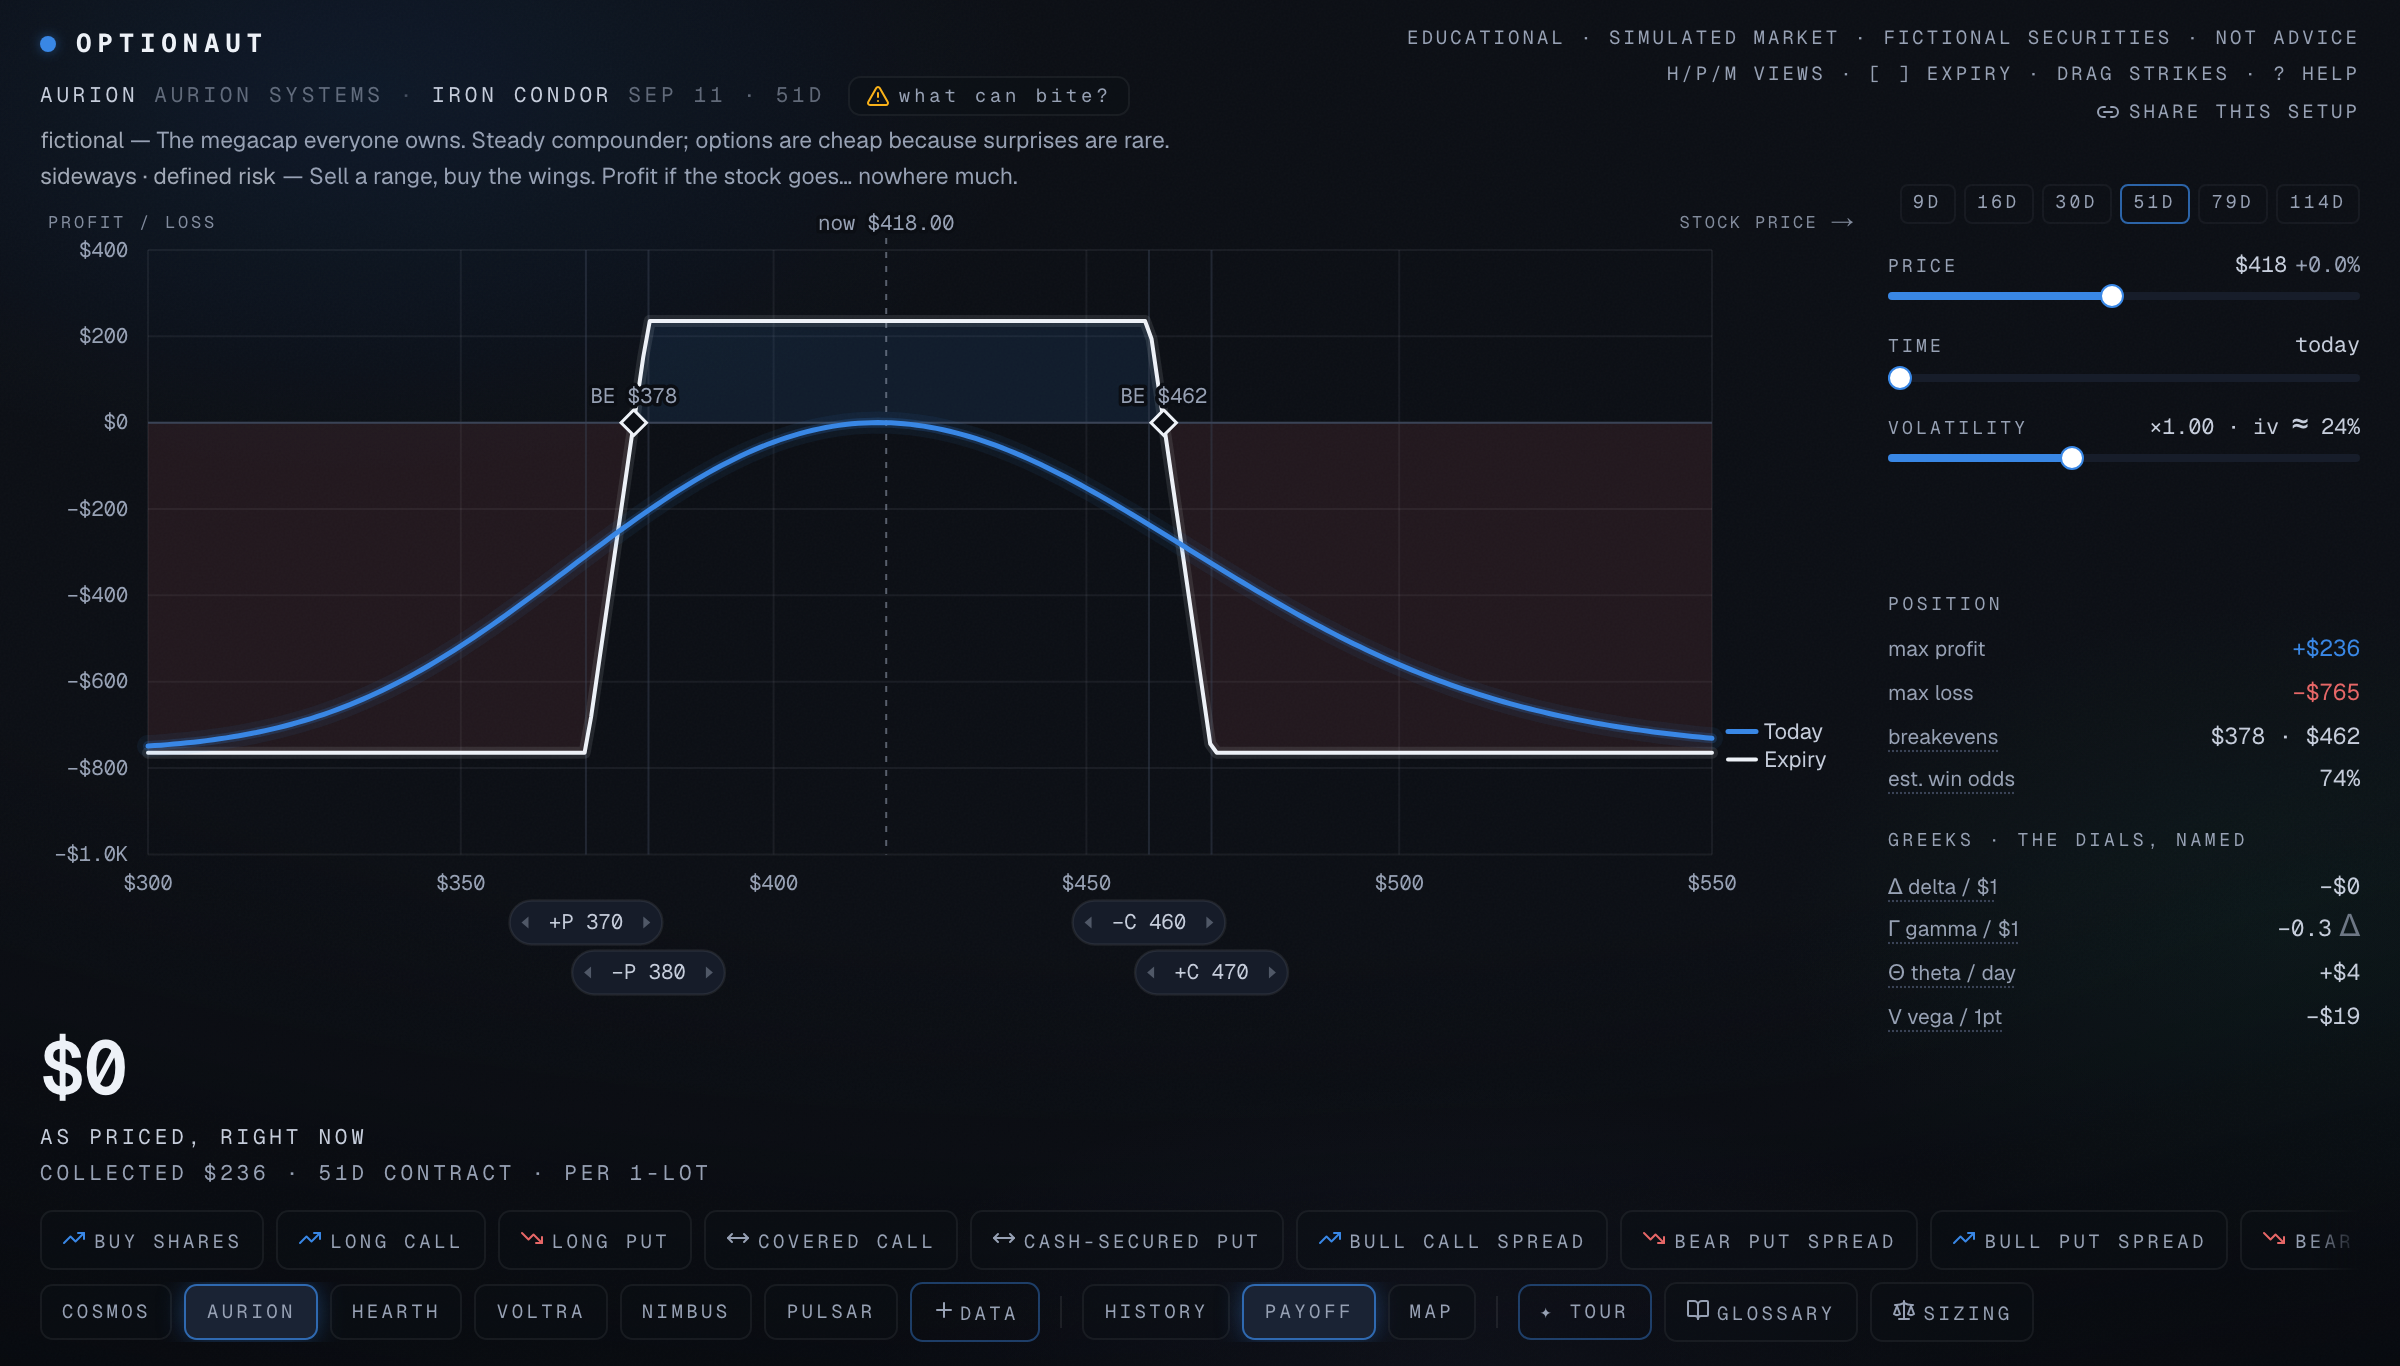
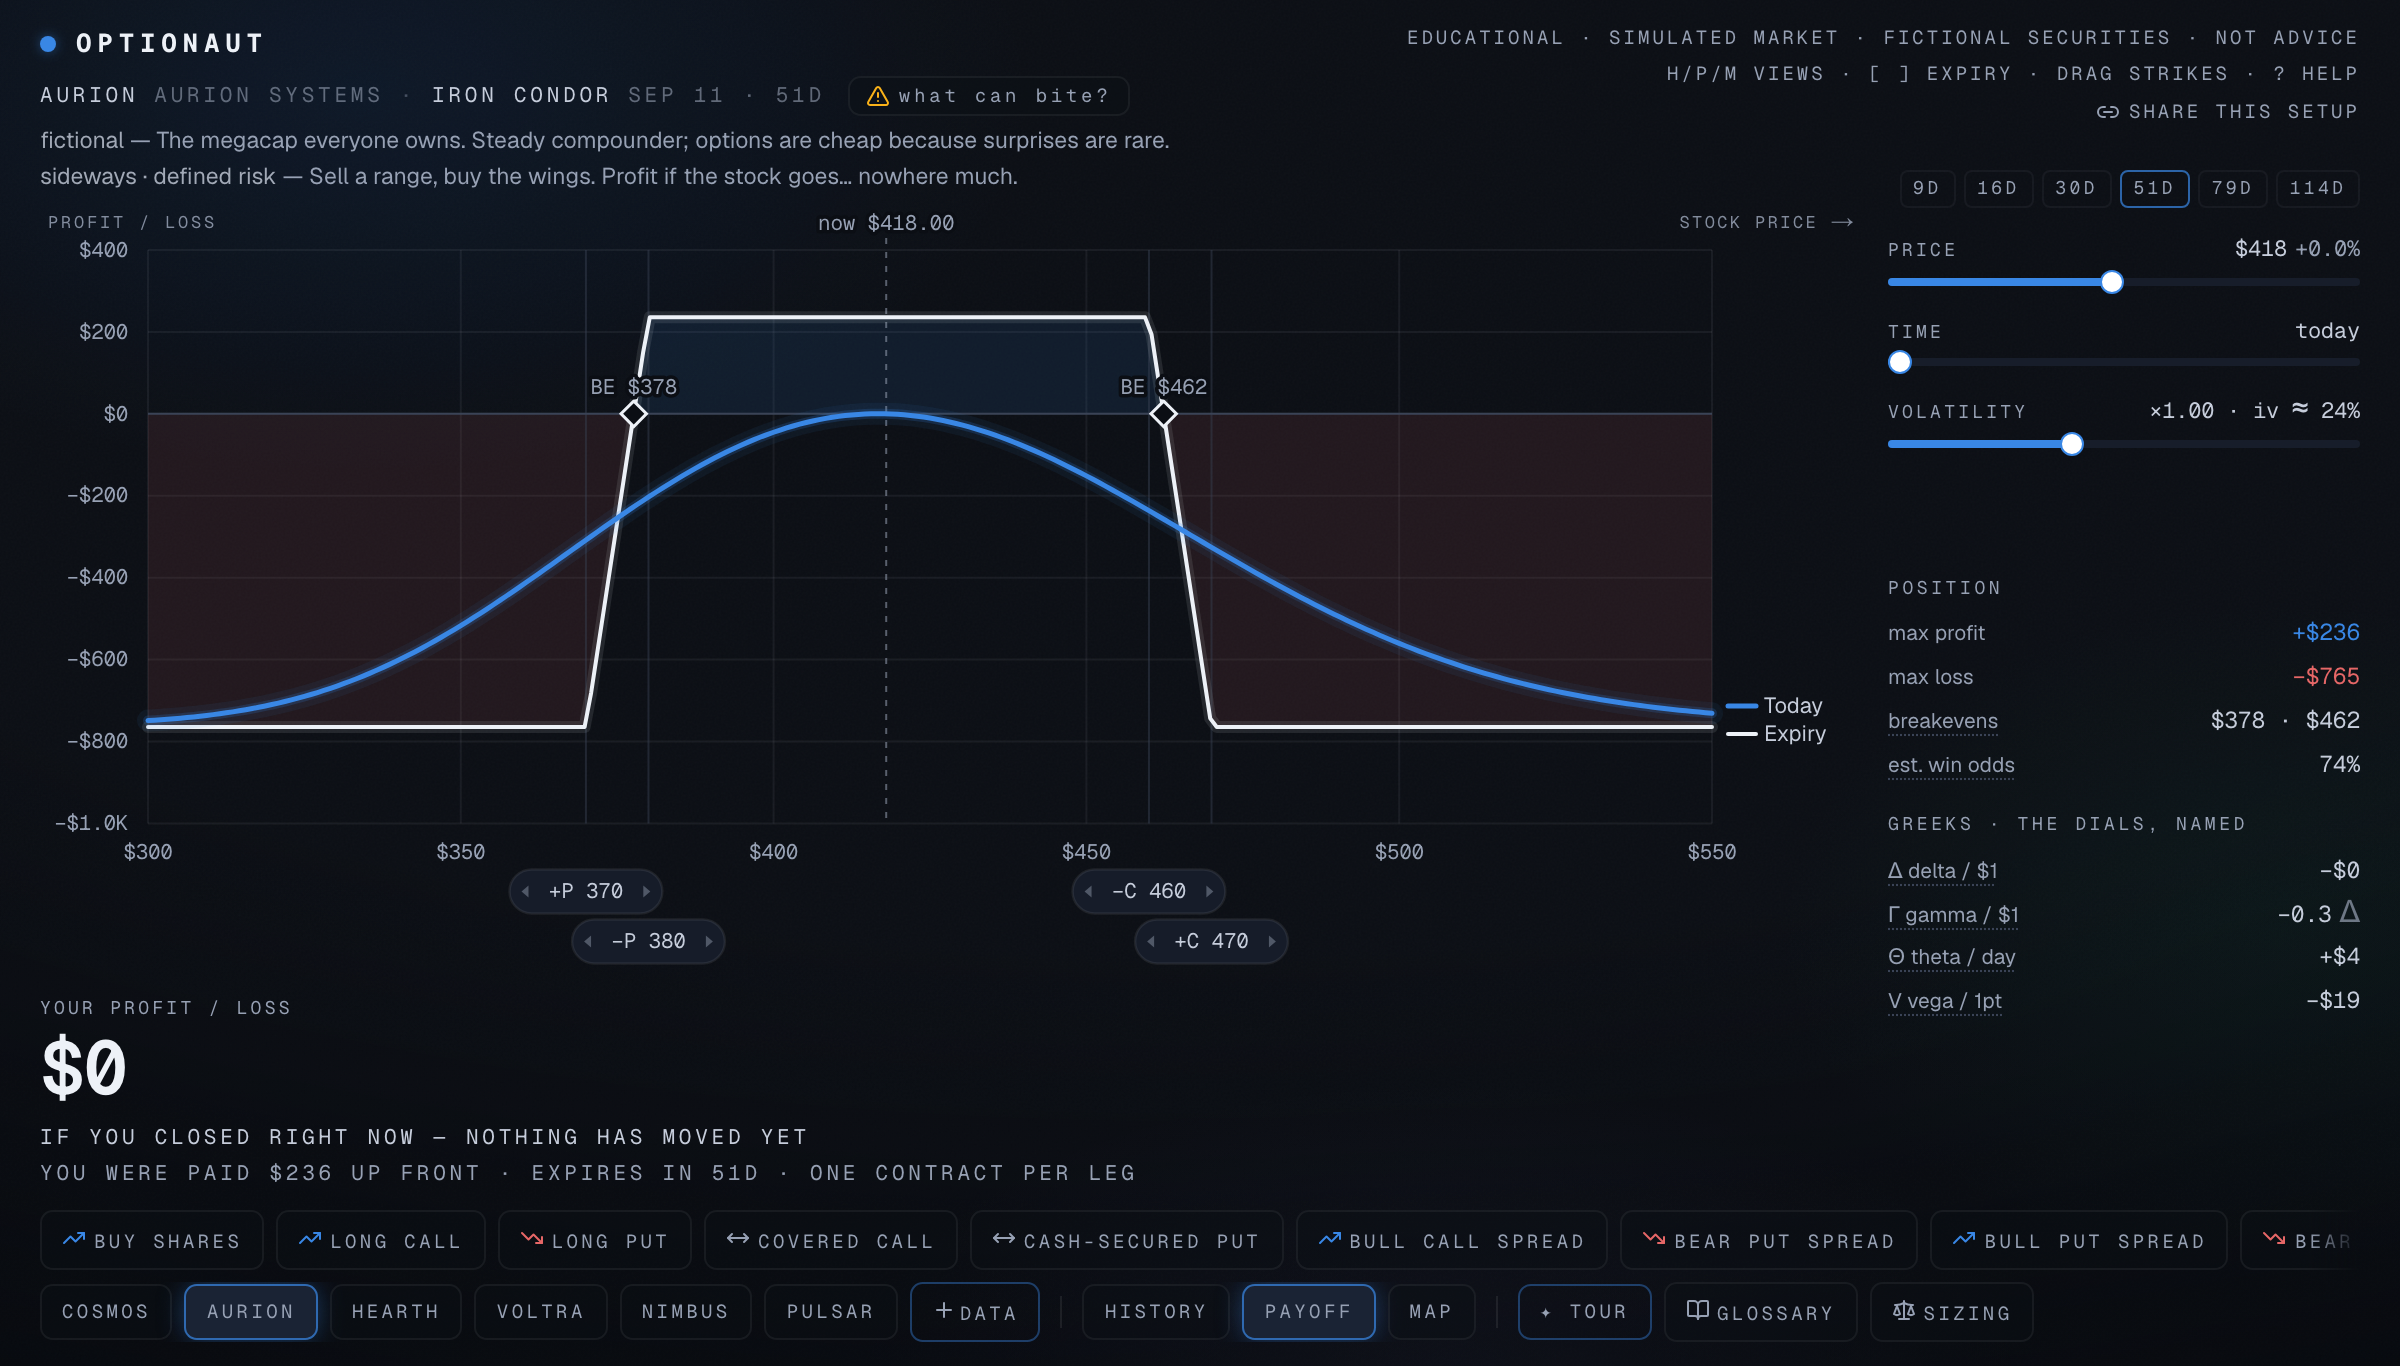
The readout speaks in sentences
"$0 / as priced, right now / collected $236 · per 1-lot" was a riddle
for exactly the person this app is for: the big number was unlabeled,
the scenario line didn't say what question the number answers, and a
credit read as a contradiction ($0 but I collected $236?). Now it
stacks as prose — "your profit / loss · $0 · if you closed right now,
nothing has moved yet · you were paid $236 up front · expires in 51d ·
one contract per leg" — and with dials moved, "if the stock is $445 ·
after 14d · vol ×1.30". Jargon retired: per 1-lot → one contract per
leg. Screenshots retaken.

diff --git a/src/components/cockpit/hud/Readout.tsx b/src/components/cockpit/hud/Readout.tsx
@@ -60,17 +60,20 @@ export function Readout({
   const pl = legs.length ? markToMarket(legs, price, elapsedDays, ctx, ivScale) : 0;
   const cost = legs.length ? netEntryCost(legs) : 0;
   const stockOnly = legs.length > 0 && legs.every((l) => l.kind === "stock");
-  const scenario =
-    whatIfPrice == null && elapsedDays === 0 && ivScale === 1
-      ? "as priced, right now"
-      : `${fmtUsd(price, { cents: false })}${elapsedDays > 0 ? ` · +${elapsedDays}d` : " · today"}${
-          ivScale !== 1 && !stockOnly ? ` · iv ×${ivScale.toFixed(2)}` : ""
-        }`;
+  const pristine = whatIfPrice == null && elapsedDays === 0 && ivScale === 1;
+  // The scenario line answers "under what assumptions is that number
+  // true?" — phrased as the question a person would actually ask.
+  const scenario = pristine
+    ? "if you closed right now — nothing has moved yet"
+    : `if the stock is ${fmtUsd(price, { cents: false })}${
+        elapsedDays > 0 ? ` · after ${elapsedDays}d` : " · today"
+      }${ivScale !== 1 && !stockOnly ? ` · vol ×${ivScale.toFixed(2)}` : ""}`;
 
   return (
     <div className="pointer-events-none select-none">
+      <div className="hud !text-[9px] text-muted-foreground/70">your profit / loss</div>
       <div
-        className={`figures font-semibold tracking-tight ${
+        className={`figures mt-0.5 font-semibold tracking-tight ${
           pl > 0.5
             ? "text-gain num-glow-gain"
             : pl < -0.5
@@ -88,8 +91,8 @@ export function Readout({
             <>100 shares · {fmtUsd(snapshot.spot * 100, { cents: false })} notional · no expiry, no decay</>
           ) : (
             <>
-              {cost >= 0 ? "paid" : "collected"} {fmtUsd(Math.abs(cost), { cents: false })} ·{" "}
-              {dte}d contract · per 1-lot
+              you {cost >= 0 ? "paid" : "were paid"} {fmtUsd(Math.abs(cost), { cents: false })}{" "}
+              {cost >= 0 ? "to open" : "up front"} · expires in {dte}d · one contract per leg
             </>
           )}
         </div>
